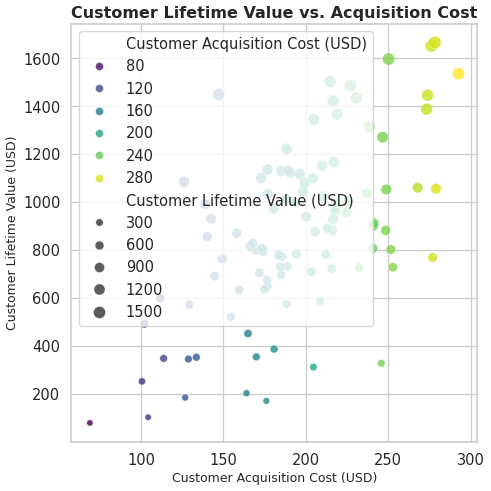
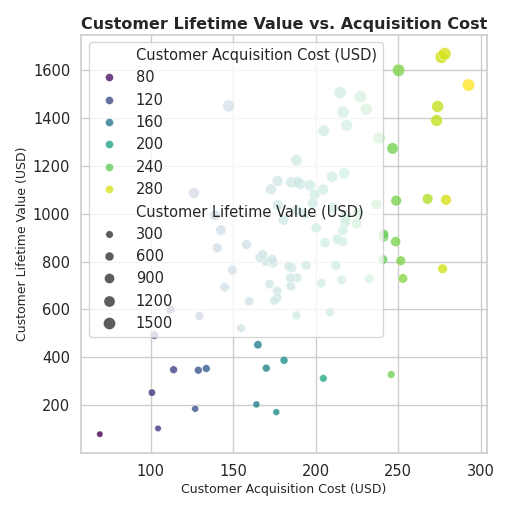
chart image changes

diff --git a/chart.py b/chart.py
@@ -23,7 +23,7 @@ df = pd.DataFrame({
 sns.set_style("whitegrid")
 sns.set_context("talk")  # Presentation-ready font sizes
 
-plt.figure(figsize=(8, 8))  # 8 inches * 64 dpi = 512 pixels
+plt.figure(figsize=(8, 8))  # 8 inches × 64 dpi = 512 px
 
 # Scatterplot with professional styling
 sns.scatterplot(
@@ -44,9 +44,8 @@ plt.title("Customer Lifetime Value vs. Acquisition Cost", fontsize=18, fontweigh
 plt.xlabel("Customer Acquisition Cost (USD)", fontsize=14)
 plt.ylabel("Customer Lifetime Value (USD)", fontsize=14)
 
-# Tight layout for better spacing
 plt.tight_layout()
 
 # Save chart exactly 512x512 pixels
-plt.savefig("chart.png", dpi=64, bbox_inches='tight')
+plt.savefig("chart.png", dpi=64)
 plt.close()
